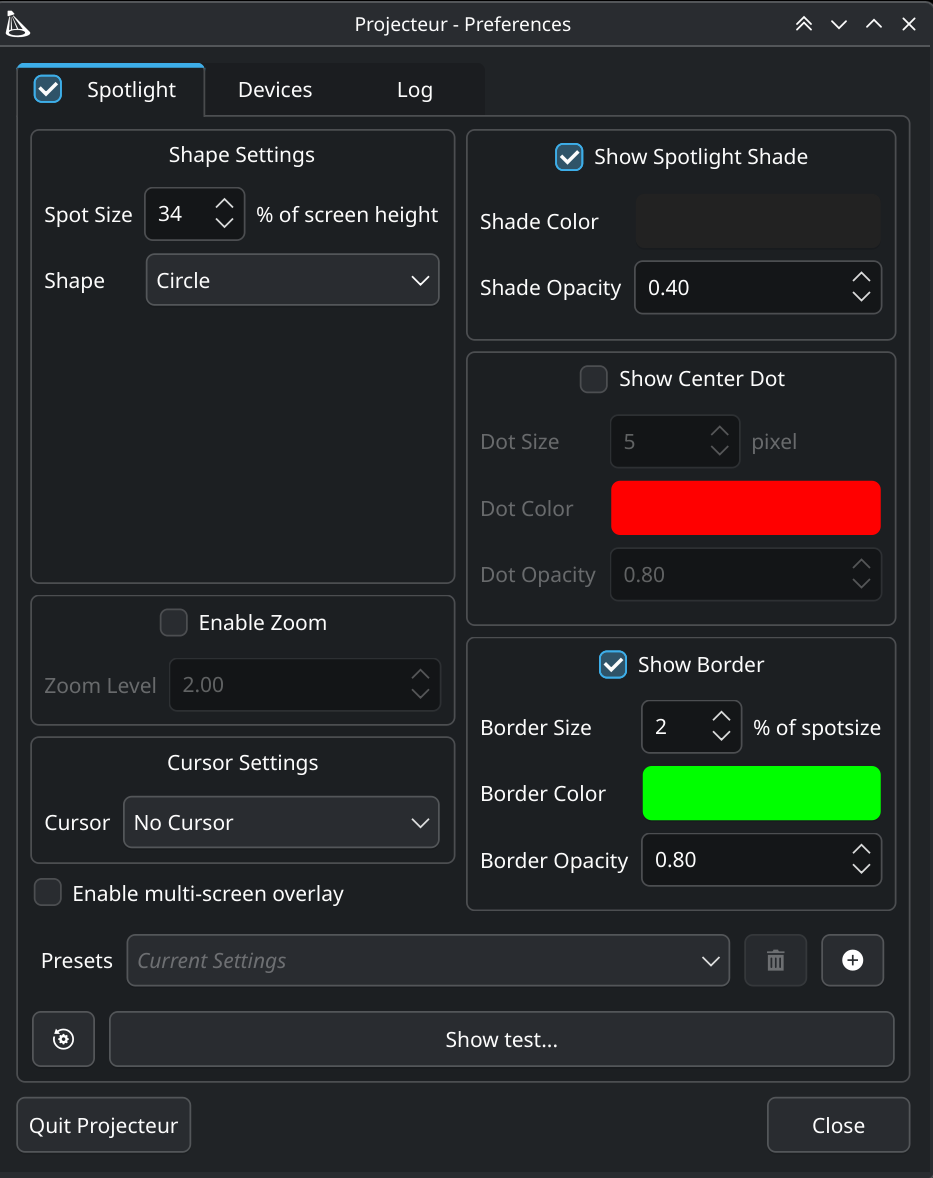
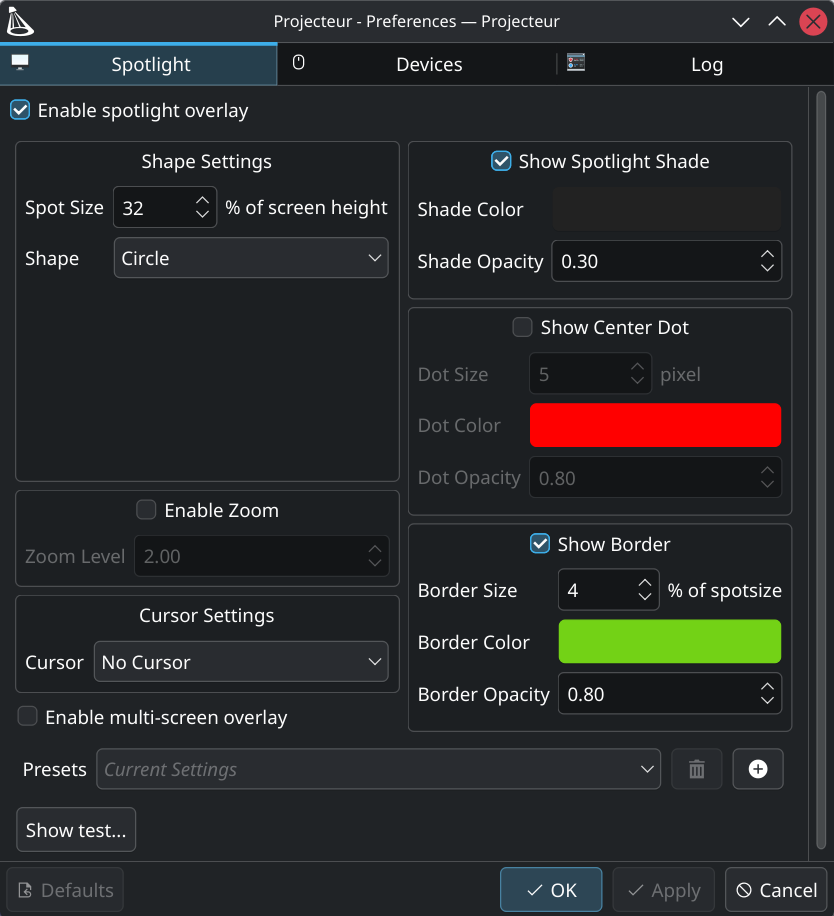
Better screenshots

diff --git a/README.md b/README.md
@@ -78,14 +78,32 @@ So here it is: a Linux application for the Logitech Spotlight.
   * Map any button on the device to (almost) any keyboard combination.
   * Switch between (cycle through) custom spotlight presets.
   * Audio Volume / Horizontal and Vertical Scrolling (Logitech Spotlight).
-* Vibration (Timer) Support for the Logitech Spotlight and Spotlight 2
+* Vibration support for compatible presenters, including the Logitech Spotlight
+  and Spotlight 2; the presentation timer triggers haptic feedback on completion
+* Native KDE Plasma system tray applet with presenter status, first-class
+  presentation timer settings, a live remaining-minutes badge, and quick controls
+* Native KDE Plasma notifications for presenter status, battery level, access
+  errors, and presentation timers
 * Usable without a presenter device (e.g. for online presentations)
 
 ### Screenshots
 
-[<img src="doc/screenshot-settings.png" alt="Projecteur preferences" height="300" />](./doc/screenshot-settings.png)
-[<img src="doc/screenshot-spot.png" alt="Projecteur spotlight overlay" height="300" />](./doc/screenshot-spot.png)
+[<img src="doc/screenshot-settings.png" alt="KDE-styled Projecteur preferences" title="KDE-styled Projecteur preferences" height="300" />](./doc/screenshot-settings.png)
+[<img src="doc/screenshot-spot.png" alt="Circular Projecteur spotlight demonstrating zoom, shade, and a green border" title="Configurable spotlight shape, zoom, shade, and border" height="300" />](./doc/screenshot-spot.png)
 [<img src="doc/screenshot-traymenu.png" alt="Projecteur Plasma tray popup" height="300" />](./doc/screenshot-traymenu.png)
+[<img src="doc/screenshot-notification.png" alt="Projecteur presenter connected notification in KDE Plasma" height="129" />](./doc/screenshot-notification.png)
+
+**KDE Plasma system tray applet integration**
+
+[<img src="doc/screenshot-plasma-applet.png" alt="Projecteur system tray applet showing one connected presenter in KDE Plasma" title="KDE Plasma system tray applet integration" height="153" />](./doc/screenshot-plasma-applet.png)
+
+**Presentation timer in the Plasma applet**
+
+[<img src="doc/screenshot-applet-presentation-timer.png" alt="First-class presentation timer settings in the Projecteur Plasma applet" title="Presentation timer in the Projecteur Plasma applet" width="800" />](./doc/screenshot-applet-presentation-timer.png)
+
+**Presentation timer countdown on the panel icon**
+
+[<img src="doc/screenshot-applet-timer-countdown.png" alt="Projecteur panel icon and tooltip showing 14 minutes remaining" title="Live presentation timer countdown on the Projecteur panel icon" height="178" />](./doc/screenshot-applet-timer-countdown.png)
 
 ## Supported Environments
 
@@ -189,7 +207,7 @@ just install  # Build, package, and install the package with pacman
 through the checked-in `packaging/arch/PKGBUILD`. `just install` uses `sudo`
 only for dependency installation and the final `pacman -U`. It stops a running
 Projecteur instance, compiles, packages and installs the current tree, then
-restarts `plasma-plasmashell.service`.
+restarts `plasma-plasmashell.service` and Projecteur.
 
 Installing is required for zoom: KWin authorizes the screenshot interface by matching
 the running executable with the installed `org.projecteur.Projecteur.desktop` metadata. A binary run
@@ -221,9 +239,13 @@ file in this repository: `55-projecteur.rules.in`
 
 Projecteur provides a native Plasma system tray popup while the application is
 running. It shows connected presenters and offers quick access to the overlay,
-presets, spotlight test, preferences, about dialog, and quit action. Plasma owns
-the popup placement and closes it when the icon is clicked again or focus moves
-elsewhere.
+presets, spotlight test, and first-class presentation timer controls, as well as
+the preferences, about, and quit actions. Plasma owns the popup placement and
+closes it when the icon is clicked again or focus moves elsewhere.
+
+While the presentation timer is running, the panel icon shows how many minutes
+remain. When the timer finishes, Projecteur triggers configurable haptic feedback
+on compatible presenter devices such as the Logitech Spotlight 2.
 
 If the system tray icon is missing, see the
 [Troubleshooting](#missing-system-tray) section.
